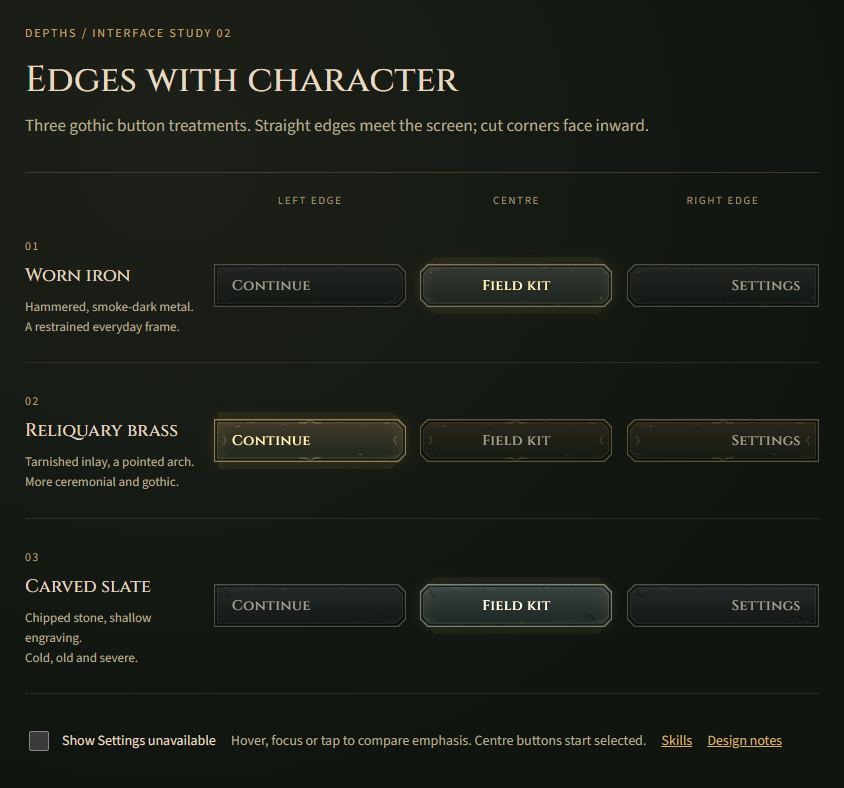
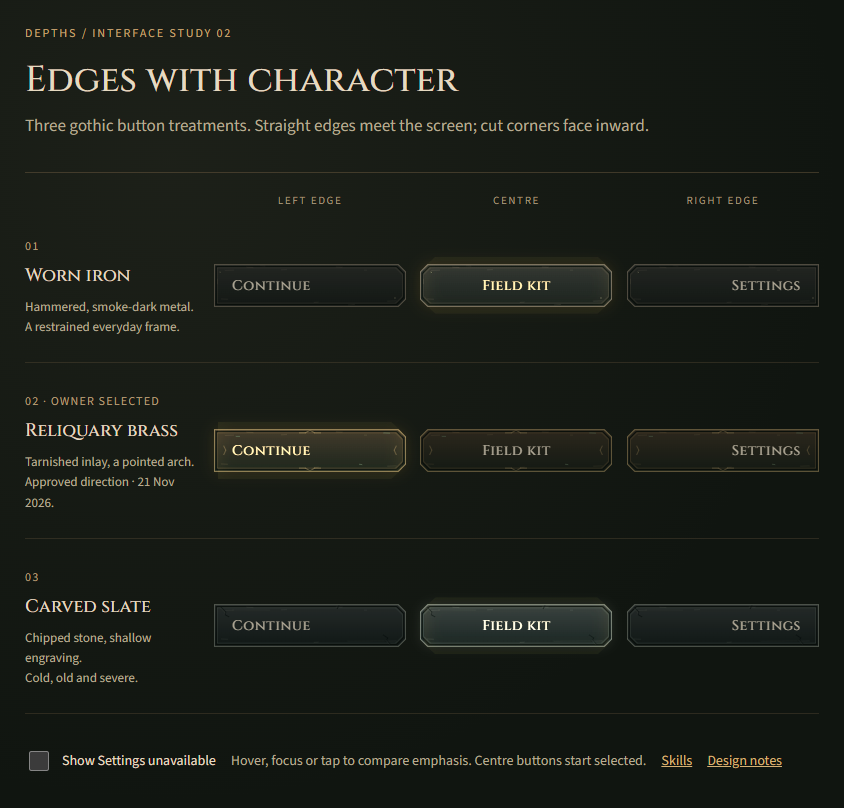
Use full-width skill paths and anchored briefs; record brass approval (Refs #268, #269)

diff --git a/art/concepts/interface/skill-tree-v1/style.css b/art/concepts/interface/skill-tree-v1/style.css
@@ -1,19 +1,17 @@
 @font-face{font-family:Cinzel;src:url('../../../fonts/cinzel/Cinzel-Variable.ttf')}@font-face{font-family:Source;src:url('../../../fonts/source-sans-3/SourceSans3-Variable.ttf')}
-:root{color-scheme:dark;--ink:#111511;--paper:#e6dac1;--muted:#b7ab93;--gold:#d7b174;--edge:#66543c;--rust:#a56c50}
-*{box-sizing:border-box}body{margin:0;background:#0d100e;color:var(--paper);font:17px Source,system-ui,sans-serif}button{font:inherit;color:inherit;cursor:pointer}button:focus-visible,a:focus-visible{outline:2px solid #f2d598;outline-offset:5px}button{-webkit-tap-highlight-color:transparent}h1,h2,p{margin:0}a{color:var(--gold)}
+:root{color-scheme:dark;--paper:#e6dac1;--muted:#b7ab93;--gold:#d7b174;--edge:#80663f;--safe-left:env(safe-area-inset-left,0px);--safe-right:env(safe-area-inset-right,0px);--safe-top:env(safe-area-inset-top,0px);--safe-bottom:env(safe-area-inset-bottom,0px)}
+*{box-sizing:border-box}body{margin:0;background:#0d100e;color:var(--paper);font:17px Source,system-ui,sans-serif}button{font:inherit;color:inherit;cursor:pointer;touch-action:manipulation;-webkit-tap-highlight-color:transparent}button:focus-visible,a:focus-visible,.card-body:focus-visible{outline:2px solid #f2d598;outline-offset:4px}h1,h2,p{margin:0}a{color:var(--gold)}[hidden]{display:none!important}
 .review{max-width:1440px;margin:auto;padding:28px 36px}.review-heading,.review-footer{display:flex;justify-content:space-between;gap:24px;color:var(--muted);font-size:13px}.review-heading{margin-bottom:16px;letter-spacing:.14em}.review-heading b{padding:0 10px;font-weight:400;color:var(--edge)}.review-heading span:last-child{letter-spacing:.04em}.review-footer{margin-top:18px;align-items:center;font-size:15px}.review-footer p{max-width:850px}.review-footer a{white-space:nowrap}
-.screen{position:relative;isolation:isolate;min-height:700px;background:radial-gradient(ellipse at 14% 10%,#42403344,transparent 52%),radial-gradient(ellipse at 90% 100%,#3c281b55,transparent 55%),#181b17;border:1px solid #746044;box-shadow:0 24px 70px #0009,inset 0 0 0 6px #0c110d,inset 0 0 0 7px #66543c55}
-.screen:before{content:"";position:absolute;inset:7px;z-index:-1;background:url('../../../ui/map-v1/quiet-centre.png') center/cover;mix-blend-mode:soft-light;opacity:.11;pointer-events:none}.screen:after{content:"";position:absolute;inset:12px;z-index:-1;box-shadow:inset 0 0 80px 24px #0005;pointer-events:none}
-.topbar{display:grid;grid-template-columns:120px 1fr auto;gap:24px;align-items:center;padding:24px 32px 21px;border-bottom:1px solid #66543c88}.page-title{font:20px Cinzel,Georgia,serif;color:var(--muted)}.identity{display:flex;align-items:baseline;gap:18px}.identity h1{font:30px Cinzel,Georgia,serif;font-weight:500;letter-spacing:.03em}.identity span{color:var(--muted);font-size:17px}.level{display:flex;align-items:center;gap:16px}.level span{font-size:11px;letter-spacing:.14em;color:var(--muted)}.level strong{font:29px Cinzel,Georgia,serif;color:var(--gold)}
-.workspace{display:grid;grid-template-columns:100px minmax(0,1fr) 276px;gap:26px;padding:30px 28px 20px 20px;position:relative}.heroes{display:flex;flex-direction:column;gap:16px;align-items:center;padding:8px 16px 0 0;border-right:1px solid #66543c66}.hero{position:relative;width:72px;height:80px;background:linear-gradient(#080c09,#292a21);padding:0;border:1px solid #66543c;outline:1px solid transparent;outline-offset:4px;transition:border-color .15s}.hero img{display:block;width:100%;height:100%;object-fit:contain;filter:saturate(.72)}.hero[aria-pressed=true]{border-color:var(--gold);outline-color:#d7b17466;background:radial-gradient(ellipse at 50% 100%,#594a30,#10150f)}.hero[aria-pressed=true]:after{content:"";position:absolute;right:-13px;top:36px;border-left:5px solid var(--gold);border-top:4px solid transparent;border-bottom:4px solid transparent}.hero:hover{border-color:var(--gold)}
-.paths{min-width:0;padding:0 2px}.section-heading{display:flex;justify-content:space-between;align-items:baseline;gap:12px;margin-bottom:22px}.section-heading h2{font:17px Cinzel,Georgia,serif;font-weight:500;letter-spacing:.06em}.section-heading span{font-size:13px;color:var(--muted)}.class-tree{display:grid;grid-template-columns:repeat(3,minmax(0,1fr));gap:12px}.branch{display:flex;flex-direction:column;align-items:center;gap:29px;position:relative}.branch:before{content:"";position:absolute;top:44px;height:114px;left:50%;width:1px;background:linear-gradient(var(--edge),#9f8256 55%,var(--edge));opacity:.5}.skill{position:relative;border:0;background:none;display:flex;flex-direction:column;align-items:center;justify-content:flex-start;padding:0;width:100%;min-height:100px}.skill .seal{position:relative;display:grid;place-items:center;width:55px;height:55px;background:linear-gradient(130deg,#313226,#171d16);border:1px solid var(--edge);box-shadow:inset 0 0 0 4px #111710,inset 0 0 0 5px #72604366;clip-path:polygon(8% 0,91% 0,100% 9%,100% 92%,92% 100%,9% 100%,0 91%,0 8%)}.seal img{width:34px;height:34px;object-fit:contain;image-rendering:pixelated;filter:sepia(.5) saturate(.65);opacity:.85}.skill.learned .seal{border-color:var(--gold);box-shadow:inset 0 0 0 4px #111710,inset 0 0 0 5px #b18e5666}.skill .label{margin-top:7px;line-height:1.15;font-size:16px}.pips{display:flex;justify-content:center;gap:4px;margin-top:7px;min-height:6px}.pip{width:5px;height:5px;background:#565445;transform:rotate(45deg)}.pip.filled{background:var(--gold)}.skill:hover .seal,.skill[aria-pressed=true] .seal{border-color:#ffe0a1;background:radial-gradient(#655237,#23281c);filter:drop-shadow(0 0 5px #be8e4033)}.skill[aria-pressed=true]:after{content:"";position:absolute;top:-7px;width:65px;height:65px;border:1px solid #d7b17466;pointer-events:none;transform:rotate(3deg)}
-.divide{display:flex;align-items:center;gap:14px;color:var(--edge);margin:22px 0 26px}.divide:before,.divide:after{content:"";height:1px;flex:1;background:linear-gradient(90deg,transparent,#9b7d4d99)}.divide:after{transform:scaleX(-1)}.divide span{font-size:11px;color:var(--gold)}.personal-section .section-heading{margin-bottom:25px}.personal-tree{display:grid;grid-template-columns:repeat(3,minmax(0,1fr));gap:12px;position:relative}.personal-tree:before{content:"";position:absolute;left:16.6%;right:16.6%;height:1px;top:34px;background:#66543c88;transform:rotate(-.6deg)}.trait .seal{width:70px;height:70px;border-radius:50%;clip-path:none;background:radial-gradient(ellipse at 45% 40%,#43372a,#1b1f16 70%);box-shadow:0 0 0 5px #161d15,0 0 0 6px #6e5a3e88,inset 0 0 0 5px #111710,inset 0 0 0 6px #9c775355}.trait .seal img{width:40px;height:40px}.trait .label{font:16px Cinzel,Georgia,serif;margin-top:16px;text-align:center;min-height:36px;max-width:155px}.trait .state{font-size:12px;color:var(--muted);margin-top:6px}.trait[aria-pressed=true]:after{width:84px;height:84px;top:-7px;transform:rotate(45deg);border-color:#c49a5c88}.trait.locked .seal{filter:saturate(.2);opacity:.45}.trait.locked .label{color:var(--muted)}.trait.locked .seal:after{content:"";width:8px;height:8px;position:absolute;bottom:7px;right:7px;background:#c0b7a2;box-shadow:0 -4px 0 -1px #c0b7a2;border:2px solid #2b3028}.trait .pips{display:none}
-.page-footer{display:flex;justify-content:space-between;gap:12px;border-top:1px solid #66543c55;margin-top:32px;padding-top:16px;color:var(--muted);font-size:12px;letter-spacing:.02em}.page-footer b{color:var(--edge);padding:0 3px}.page-footer span:first-child{font-style:italic}
-.inspection{position:relative;align-self:stretch;min-width:0;border-left:1px solid #66543c88;padding:16px 0 12px 26px}.dismiss{display:none;position:absolute;top:4px;right:4px;width:44px;height:44px;background:none;border:0;font-size:29px}.detail-kind{font-size:12px;color:var(--gold);letter-spacing:.13em;text-transform:uppercase}.detail-seal{margin:36px 0 22px;width:80px;height:80px;display:grid;place-items:center;border:1px solid var(--edge);transform:rotate(3deg);background:radial-gradient(#54443166,#111810)}.detail-seal img{width:56px;height:56px;object-fit:contain;image-rendering:pixelated;transform:rotate(-3deg);filter:sepia(.5) saturate(.65)}.inspection h2{font:25px Cinzel,Georgia,serif;font-weight:500;line-height:1.3}.detail-state{color:var(--gold);font-size:13px;margin-top:10px;letter-spacing:.06em}.flavour{font:italic 17px Georgia,serif;line-height:1.55;color:var(--muted);margin-top:22px}.effect{font-size:18px;line-height:1.45;margin-top:21px}.detail-rule{width:40px;height:1px;background:var(--edge);margin:24px 0}.unlock{font-size:15px;line-height:1.4;color:var(--muted)}.detail-caption{margin-top:18px;color:#b89969;font-size:12px}.inspection[hidden]{display:none}
-@media(min-width:1101px){.screen{min-height:680px}.inspection[hidden]{display:block;visibility:hidden}}
-@media(max-width:1100px), (max-height:650px) and (min-width:640px){.review{padding:14px 20px}.screen{min-height:570px}.workspace{grid-template-columns:72px minmax(0,1fr);gap:20px;padding:20px}.heroes{padding-right:12px;gap:14px}.hero{width:56px;height:66px}.hero[aria-pressed=true]:after{top:28px;right:-11px}.topbar{padding:17px 24px;grid-template-columns:70px 1fr auto}.identity h1{font-size:25px}.level span{display:none}.class-tree{max-width:760px;margin:auto}.branch{gap:15px}.branch:before{height:98px}.skill{min-height:84px}.skill .seal{width:48px;height:48px}.seal img{width:30px;height:30px}.skill .label{font-size:15px}.section-heading{margin-bottom:17px}.divide{margin:16px 0}.trait .seal{width:62px;height:62px}.trait .label{font-size:15px;margin-top:12px}.trait[aria-pressed=true]:after{width:76px;height:76px}.personal-tree:before{top:31px}.page-footer{margin-top:19px;padding-top:10px}.inspection{position:absolute;right:15px;top:10px;bottom:12px;width:300px;padding:25px;border:1px solid #9c7e4d;background:linear-gradient(135deg,#272b21f8,#121910fc);box-shadow:0 12px 32px #000b;z-index:3;overflow-y:auto}.dismiss{display:block}.detail-kind{padding-right:30px}.detail-seal{margin:20px 0;width:58px;height:58px}.detail-seal img{width:42px;height:42px}.inspection h2{font-size:23px}.effect{font-size:17px}.flavour{margin-top:16px;font-size:16px}.detail-rule{margin:16px 0}.review-footer{font-size:13px}}
-@media(max-height:650px) and (min-width:640px){.review{padding:0}.review-heading,.review-footer{display:none}.screen{min-height:100svh}.topbar{height:61px;padding:10px max(19px,env(safe-area-inset-right));grid-template-columns:70px 1fr auto;gap:16px}.page-title{font-size:17px}.identity h1{font-size:22px}.identity span{font-size:15px}.workspace{padding:13px max(18px,env(safe-area-inset-right)) 10px max(14px,env(safe-area-inset-left));gap:20px;grid-template-columns:62px minmax(0,1fr)}.heroes{gap:12px;padding-top:2px}.hero{width:48px;height:55px}.hero[aria-pressed=true]:after{top:24px}.section-heading{margin-bottom:11px}.section-heading h2{font-size:14px}.section-heading span{font-size:12px}.class-tree{gap:8px}.branch{gap:11px}.branch:before{top:35px;height:80px}.skill{min-height:64px}.skill .seal{width:42px;height:42px}.seal img{width:27px;height:27px}.skill .label{font-size:13px;margin-top:4px}.pips{margin-top:5px;gap:4px}.pip{height:4px;width:4px}.skill[aria-pressed=true]:after{width:52px;height:52px;top:-5px}.divide{margin:10px 0 9px}.personal-section .section-heading{margin-bottom:13px}.trait .seal{width:48px;height:48px}.trait .seal img{width:30px;height:30px}.trait .label{font-size:13px;margin-top:10px;min-height:16px;max-width:175px}.trait .state{font-size:11px;margin-top:3px}.trait[aria-pressed=true]:after{width:60px;height:60px;top:-6px}.personal-tree:before{top:24px}.page-footer{margin-top:12px;padding-top:7px;font-size:11px}.inspection{top:5px;bottom:5px;width:290px;padding:18px 24px}.detail-seal{float:left;margin:17px 16px 10px 0;width:44px;height:44px}.detail-seal img{width:32px;height:32px}.inspection h2{font-size:21px;padding-top:16px}.detail-state{font-size:12px}.flavour{clear:both;font-size:15px;margin-top:18px}.effect{margin-top:14px;font-size:16px}.unlock{font-size:14px}.detail-caption{margin-top:12px}}
-@media(max-width:639px){.review{padding:8px}.review-heading{font-size:10px}.review-heading span:last-child{display:none}.screen{min-height:760px}.topbar{grid-template-columns:1fr auto;gap:10px;padding:18px}.page-title{display:none}.identity{display:block}.identity span{display:block;margin-top:6px}.workspace{grid-template-columns:1fr;padding:18px;gap:24px}.heroes{flex-direction:row;border-right:0;border-bottom:1px solid var(--edge);padding:0 0 16px;justify-content:space-between}.hero[aria-pressed=true]:after{display:none}.section-heading{display:block}.section-heading span{display:block;margin-top:6px}.section-heading h2{font-size:15px}.trait .label{font-size:13px;min-height:35px}.page-footer{display:block}.page-footer span{display:block;margin-top:5px}.inspection{position:fixed;inset:auto 10px 10px;width:auto;max-height:65svh}.review-footer{display:block}.review-footer a{display:block;margin-top:12px}}
-@media(max-height:430px) and (min-width:640px){.topbar{height:46px;padding-top:6px;padding-bottom:6px}.workspace{padding-top:10px;padding-bottom:8px}.heroes{gap:9px}.hero{height:49px}.section-heading{margin-bottom:8px}.section-heading h2{font-size:13px}.class-tree{grid-template-columns:repeat(6,minmax(0,1fr));gap:7px}.branch{display:contents}.branch:before{display:none}.class-section .skill{min-height:72px}.class-section .seal{width:38px;height:38px}.class-section .label{font-size:12px;min-height:27px;max-width:80px;margin-top:3px}.class-section .pips{margin-top:3px}.divide{margin:5px 0 7px}.personal-section .section-heading{margin-bottom:13px}.trait .seal{width:42px;height:42px}.trait .seal img{width:27px;height:27px}.trait .label{font-size:12px;margin-top:9px}.trait .state{display:none}.personal-tree:before{top:21px}.trait[aria-pressed=true]:after{width:54px;height:54px}.page-footer{margin-top:12px;padding-top:6px}.page-footer span:last-child{display:none}}
+.screen{position:relative;isolation:isolate;min-height:660px;background:radial-gradient(ellipse at 14% 10%,#42403344,transparent 52%),radial-gradient(ellipse at 90% 100%,#3c281b55,transparent 55%),#181b17;border:1px solid #746044;box-shadow:0 24px 70px #0009,inset 0 0 0 6px #0c110d,inset 0 0 0 7px #66543c55}.screen:before{content:"";position:absolute;inset:7px;z-index:-1;background:url('../../../ui/map-v1/quiet-centre.png') center/cover;mix-blend-mode:soft-light;opacity:.11;pointer-events:none}.screen:after{content:"";position:absolute;inset:12px;z-index:-1;box-shadow:inset 0 0 80px 24px #0005;pointer-events:none}
+.topbar{display:grid;grid-template-columns:140px 1fr auto;gap:24px;align-items:center;padding:22px 28px;border-bottom:1px solid #8b714588}.page-title{display:grid;place-items:center;width:128px;height:48px;background:url('../gothic-buttons-v1/assets/brass-left.svg') center/100% 100% no-repeat;font:19px Cinzel,Georgia,serif;color:var(--gold)}.identity{display:flex;align-items:baseline;gap:18px}.identity h1{font:30px Cinzel,Georgia,serif;font-weight:500;letter-spacing:.03em}.identity span{color:var(--muted);font-size:17px}.level{display:flex;align-items:center;gap:16px}.level span{font-size:11px;letter-spacing:.14em;color:var(--muted)}.level strong{font:29px Cinzel,Georgia,serif;color:var(--gold)}
+.workspace{display:grid;grid-template-columns:100px minmax(0,1fr);gap:30px;padding:30px 32px 22px 20px}.heroes{display:flex;flex-direction:column;gap:16px;align-items:center;padding:8px 16px 0 0;border-right:1px solid #80663f66}.hero{position:relative;width:72px;height:80px;background:linear-gradient(#080c09,#292a21);padding:0;border:1px solid #66543c;outline:1px solid transparent;outline-offset:4px}.hero img{display:block;width:100%;height:100%;object-fit:contain;filter:saturate(.72)}.hero[aria-pressed=true]{border-color:var(--gold);outline-color:#d7b17466;background:radial-gradient(ellipse at 50% 100%,#594a30,#10150f)}.hero[aria-pressed=true]:after{content:"";position:absolute;right:-13px;top:36px;border-left:5px solid var(--gold);border-top:4px solid transparent;border-bottom:4px solid transparent}.hero:hover{border-color:var(--gold)}
+.paths{min-width:0}.section-heading{display:flex;justify-content:space-between;align-items:baseline;gap:12px;margin-bottom:32px}.section-heading h2{font:17px Cinzel,Georgia,serif;font-weight:500;letter-spacing:.06em}.section-heading span{font-size:13px;color:var(--muted)}.class-tree,.personal-tree{display:grid;position:relative;gap:16px}.class-tree{grid-template-columns:repeat(6,minmax(0,1fr));padding:0 8px}.branch{display:contents}.class-tree:before,.personal-tree:before{content:"";position:absolute;left:8.3%;right:8.3%;height:1px;top:30px;background:linear-gradient(90deg,#8b714566,#a88a5755,#8b714566);transform:rotate(-.25deg);pointer-events:none}.skill{position:relative;border:0;background:none;display:flex;flex-direction:column;align-items:center;justify-content:flex-start;padding:0 2px 5px;width:100%;min-height:112px}.skill .seal{position:relative;display:grid;place-items:center;width:60px;height:60px;flex-shrink:0;background:linear-gradient(135deg,#3a3221,#161d16);border:1px solid #a18a5c;box-shadow:inset 0 0 0 4px #111710,inset 0 0 0 5px #8b714555;clip-path:polygon(10% 0,90% 0,100% 10%,100% 90%,90% 100%,10% 100%,0 90%,0 10%)}.seal img{width:36px;height:36px;object-fit:contain;image-rendering:pixelated;filter:sepia(.5) saturate(.65);opacity:.85}.skill.learned .seal{border-color:var(--gold);box-shadow:inset 0 0 0 4px #111710,inset 0 0 0 5px #b18e5666}.skill .label{margin-top:10px;line-height:1.15;font-size:16px;text-align:center}.pips{display:flex;justify-content:center;gap:5px;margin-top:9px;min-height:6px}.pip{width:5px;height:5px;background:#565445;transform:rotate(45deg)}.pip.filled{background:var(--gold)}.skill:hover .seal,.skill[aria-pressed=true] .seal{border-color:#ffe0a1;background:radial-gradient(#655237,#23281c);filter:drop-shadow(0 0 5px #be8e4033)}.skill[aria-pressed=true]:after{content:"";position:absolute;top:-6px;width:72px;height:72px;border:1px solid #d7b17466;pointer-events:none;transform:rotate(3deg)}
+.divide{display:flex;align-items:center;gap:14px;color:var(--edge);margin:28px 0 30px}.divide:before,.divide:after{content:"";height:1px;flex:1;background:linear-gradient(90deg,transparent,#9b7d4d99)}.divide:after{transform:scaleX(-1)}.divide span{font-size:11px;color:var(--gold)}.personal-section .section-heading{margin-bottom:31px}.personal-tree{grid-template-columns:repeat(3,minmax(0,1fr))}.personal-tree:before{left:16.6%;right:16.6%;top:38px}.trait .seal{width:76px;height:76px;border-radius:50%;clip-path:none;background:radial-gradient(ellipse at 45% 40%,#43372a,#1b1f16 70%);box-shadow:0 0 0 5px #161d15,0 0 0 6px #8d704688,inset 0 0 0 5px #111710,inset 0 0 0 6px #9c775355}.trait .seal img{width:42px;height:42px}.trait .label{font:17px Cinzel,Georgia,serif;margin-top:18px;text-align:center;min-height:22px;max-width:240px}.trait .state{font-size:12px;color:var(--muted);margin-top:8px}.trait[aria-pressed=true]:after{width:90px;height:90px;top:-7px;transform:rotate(45deg);border-color:#c49a5c88}.trait.locked .seal{filter:saturate(.2);opacity:.45}.trait.locked .label{color:var(--muted)}.trait.locked .seal:after{content:"";width:8px;height:8px;position:absolute;bottom:7px;right:7px;background:#c0b7a2;box-shadow:0 -4px 0 -1px #c0b7a2;border:2px solid #2b3028}.page-footer{display:flex;justify-content:space-between;gap:12px;border-top:1px solid #66543c55;margin-top:30px;padding-top:16px;color:var(--muted);font-size:12px;letter-spacing:.02em}.page-footer b{color:var(--edge);padding:0 3px}.page-footer span:first-child{font-style:italic}
+/* Source-anchored inventory-style card. No screen column is reserved. */
+.inspection{position:fixed;display:flex;flex-direction:column;z-index:10;width:340px;max-height:420px;padding:0;background:linear-gradient(135deg,#292c21fa,#131a13fc);border:1px solid #b29762;box-shadow:0 12px 36px #000b,inset 0 0 0 4px #151b1388;overflow:visible}.inspection:before{content:"";position:absolute;top:var(--arrow-y,30px);width:10px;height:10px;background:#252b1e;border:solid #b29762;transform:rotate(45deg);pointer-events:none}.inspection[data-side=right]:before{left:-6px;border-width:0 0 1px 1px}.inspection[data-side=left]:before{right:-6px;border-width:1px 1px 0 0}.card-header{position:relative;flex-shrink:0;padding:16px 52px 14px 18px;border-bottom:1px solid #8b714544;min-height:104px}.detail-kind{font-size:11px;color:var(--gold);letter-spacing:.1em;text-transform:uppercase}.detail-seal{float:left;margin:9px 12px 0 0;width:40px;height:40px;display:grid;place-items:center;border:1px solid #8b7145;background:#1a2116}.detail-seal img{width:29px;height:29px;object-fit:contain;image-rendering:pixelated;filter:sepia(.5) saturate(.65)}.inspection h2{font:20px Cinzel,Georgia,serif;font-weight:500;line-height:1.25;margin-top:8px}.detail-state{color:var(--gold);font-size:12px;margin-top:5px}.dismiss{position:absolute;right:5px;top:5px;width:44px;height:44px;background:none;border:0;font-size:27px;color:var(--paper)}.card-body{overflow-y:auto;overscroll-behavior:contain;min-height:0;padding:18px;scrollbar-color:#8b7145 #192116}.effect{font-size:17px;line-height:1.45}.flavour{font:italic 15px Georgia,serif;line-height:1.5;color:var(--muted);margin-top:16px}.card-footer{flex-shrink:0;padding:14px 18px 17px;border-top:1px solid #8b714544}.unlock{font-size:14px;line-height:1.35;color:var(--muted)}.detail-caption{margin-top:9px;color:#c0a073;font-size:12px}
+@media(max-width:1100px){.review{padding:14px 20px}.topbar{grid-template-columns:110px 1fr auto;padding:17px 22px;gap:20px}.page-title{width:104px;height:44px;font-size:17px}.identity h1{font-size:25px}.level span{display:none}.workspace{grid-template-columns:72px minmax(0,1fr);gap:22px;padding:25px 24px 20px 16px}.heroes{padding-right:12px;gap:14px}.hero{width:56px;height:66px}.hero[aria-pressed=true]:after{top:28px;right:-11px}.section-heading span{font-size:12px}.class-tree{gap:8px;padding:0}.skill .seal{width:48px;height:48px}.seal img{width:30px;height:30px}.skill .label{font-size:15px}.skill[aria-pressed=true]:after{width:60px;height:60px}.class-tree:before{top:24px}.trait .seal{width:66px;height:66px}.trait .label{font-size:15px}.trait[aria-pressed=true]:after{width:80px;height:80px}.personal-tree:before{top:33px}.review-footer{font-size:13px}}
+@media(max-height:650px) and (min-width:640px){.review{padding:0}.review-heading,.review-footer{display:none}.screen{min-height:100svh}.topbar{height:63px;padding:8px max(18px,env(safe-area-inset-right));grid-template-columns:105px 1fr auto;gap:16px}.page-title{width:98px;height:43px;font-size:17px}.identity h1{font-size:23px}.identity span{font-size:15px}.level span{display:none}.workspace{padding:22px max(22px,env(safe-area-inset-right)) 12px max(14px,env(safe-area-inset-left));gap:24px;grid-template-columns:62px minmax(0,1fr)}.heroes{gap:12px;padding-top:2px}.hero{width:48px;height:55px}.hero[aria-pressed=true]:after{top:24px}.section-heading{margin-bottom:22px}.section-heading h2{font-size:15px}.section-heading span{font-size:12px}.class-tree{gap:8px}.skill{min-height:94px}.skill .seal{width:48px;height:48px}.seal img{width:30px;height:30px}.skill .label{font-size:14px;margin-top:9px}.skill[aria-pressed=true]:after{width:60px;height:60px;top:-6px}.class-tree:before{top:24px}.divide{margin:21px 0}.personal-section .section-heading{margin-bottom:22px}.trait .seal{width:62px;height:62px}.trait .seal img{width:34px;height:34px}.trait .label{font-size:15px;margin-top:15px}.trait[aria-pressed=true]:after{width:76px;height:76px;top:-7px}.personal-tree:before{top:31px}.page-footer{margin-top:22px;padding-top:12px}}
+@media(max-height:430px) and (min-width:640px){.topbar{height:48px;padding-top:4px;padding-bottom:4px}.page-title{height:36px;width:94px;font-size:15px}.identity h1{font-size:21px}.workspace{padding-top:13px;padding-bottom:8px;gap:20px}.heroes{gap:9px}.hero{height:49px}.section-heading{margin-bottom:13px}.section-heading h2{font-size:13px}.class-tree{gap:6px}.class-section .skill{min-height:79px}.class-section .seal{width:40px;height:40px}.class-section .seal img{width:26px;height:26px}.class-section .label{font-size:12px;min-height:26px;max-width:82px;margin-top:6px}.class-section .pips{margin-top:3px;gap:4px}.pip{width:4px;height:4px}.class-tree:before{top:20px}.skill[aria-pressed=true]:after{width:52px;height:52px}.divide{margin:10px 0 12px}.personal-section .section-heading{margin-bottom:17px}.trait .seal{width:44px;height:44px}.trait .seal img{width:28px;height:28px}.trait .label{font-size:12px;margin-top:11px;min-height:16px}.trait .state{display:none}.trait[aria-pressed=true]:after{width:58px;height:58px}.personal-tree:before{top:22px}.page-footer{display:none}.page-footer span:last-child{display:none}.card-header{padding-top:12px;padding-bottom:11px;min-height:98px}.inspection h2{font-size:18px}.card-body{padding:14px 18px}.effect{font-size:16px}.card-footer{padding-top:11px;padding-bottom:12px}}
+@media(max-width:639px){.review{padding:8px}.review-heading{font-size:10px}.review-heading span:last-child{display:none}.screen{min-height:760px}.topbar{grid-template-columns:1fr auto;gap:10px;padding:18px}.page-title{display:none}.identity{display:block}.identity span{display:block;margin-top:6px}.workspace{grid-template-columns:1fr;padding:18px;gap:24px}.heroes{flex-direction:row;border-right:0;border-bottom:1px solid var(--edge);padding:0 0 16px;justify-content:space-between}.hero[aria-pressed=true]:after{display:none}.section-heading{display:block}.section-heading span{display:block;margin-top:6px}.section-heading h2{font-size:15px}.class-tree{grid-template-columns:repeat(3,minmax(0,1fr));row-gap:22px}.class-tree:before{display:none}.trait .label{font-size:13px;min-height:35px}.page-footer{display:block}.page-footer span{display:block;margin-top:5px}.review-footer{display:block}.review-footer a{display:block;margin-top:12px}}
 @media(prefers-reduced-motion:reduce){*{transition:none!important}}
 

diff --git a/art/concepts/interface/skill-tree-v1/concept.js b/art/concepts/interface/skill-tree-v1/concept.js
@@ -51,10 +51,12 @@ const heroes = [
   ]},
 ];
 let current=heroes[0], selected=null, selectionPinned=false;
+let hoverTimer=null;
 const byId=id=>document.getElementById(id);
 const image=key=>ART+icons[key];
 const panel=byId('inspection');
-const compact=()=>window.matchMedia('(max-width:1100px), (max-height:650px) and (min-width:640px)').matches;
+const clearHover=()=>{clearTimeout(hoverTimer);hoverTimer=null;};
+function leavePreview(){clearHover();if(!selectionPinned)hoverTimer=setTimeout(()=>dismiss(false),160);}
 function createNode(data){
   const button=document.createElement('button');
   button.type='button'; button.className='skill'+(data.personal?' trait':'')+(data.rank>0||data.state==='Known'?' learned':'')+(data.state==='Story locked'?' locked':'');
@@ -66,13 +68,17 @@ function createNode(data){
   button.append(seal,label);
   if(data.personal){const state=document.createElement('span');state.className='state';state.textContent=data.state;button.append(state);}
   else{const pips=document.createElement('span');pips.className='pips';pips.setAttribute('aria-hidden','true');for(let i=0;i<data.max;i++){const pip=document.createElement('i');pip.className='pip'+(i<data.rank?' filled':'');pips.append(pip);}button.append(pips);}
-  button.addEventListener('mouseenter',()=>{if(!compact()&&!selectionPinned)inspect(data,button);});
-  button.addEventListener('focus',()=>{if(!compact()&&!selectionPinned)inspect(data,button);});
-  button.addEventListener('click',()=>{selectionPinned=true;inspect(data,button);});
+  button.addEventListener('pointerenter',event=>{clearHover();if(event.pointerType==='mouse'&&!selectionPinned)inspect(data,button);});
+  button.addEventListener('pointerleave',leavePreview);
+  button.addEventListener('focus',()=>{clearHover();if(button.matches(':focus-visible')&&!selectionPinned)inspect(data,button);});
+  button.addEventListener('click',()=>{clearHover();selectionPinned=true;inspect(data,button);});
   return button;
 }
 function inspect(data,button){
+  clearHover();
+  if(selected)selected.removeAttribute('aria-describedby');
   selected=button;
+  button.setAttribute('aria-describedby','inspection');
   document.querySelectorAll('.skill').forEach(b=>b.setAttribute('aria-pressed',String(b===button)));
   byId('detail-kind').textContent=data.personal?'Personal trait':current.role+' training';
   byId('detail-icon').src=image(data.icon);
@@ -83,23 +89,49 @@ function inspect(data,button){
   byId('detail-unlock').textContent=data.unlock;
   byId('detail-caption').textContent=data.personal?'Unique to '+current.name:'Shared by heroes of this class';
   panel.hidden=false;
+  positionCard();
+}
+function positionCard(){
+  if(panel.hidden||!selected)return;
+  const screen=document.querySelector('.screen').getBoundingClientRect();
+  const rootStyle=getComputedStyle(document.documentElement);
+  const safe=side=>Math.max(12,parseFloat(rootStyle.getPropertyValue('--safe-'+side))||0);
+  const bounds={left:Math.max(screen.left,safe('left')),right:Math.min(screen.right,innerWidth-safe('right')),top:Math.max(screen.top,safe('top')),bottom:Math.min(screen.bottom,innerHeight-safe('bottom'))};
+  const source=selected.getBoundingClientRect();
+  if(source.bottom<bounds.top||source.top>bounds.bottom){dismiss(false);return;}
+  const rightSpace=bounds.right-source.right-12;
+  const leftSpace=source.left-bounds.left-12;
+  const side=rightSpace>=Math.min(340,bounds.right-bounds.left)||rightSpace>=leftSpace?'right':'left';
+  const space=side==='right'?rightSpace:leftSpace;
+  const width=Math.min(340,Math.max(230,space),bounds.right-bounds.left);
+  panel.style.width=width+'px';
+  panel.style.maxHeight=Math.min(420,bounds.bottom-bounds.top)+'px';
+  const height=panel.getBoundingClientRect().height;
+  const x=side==='right'?source.right+12:source.left-width-12;
+  const y=Math.max(bounds.top,Math.min(source.top,bounds.bottom-height));
+  panel.style.left=Math.max(bounds.left,Math.min(x,bounds.right-width))+'px';
+  panel.style.top=y+'px';
+  panel.dataset.side=side;
+  panel.style.setProperty('--arrow-y',Math.max(16,Math.min(source.top+25-y,height-26))+'px');
 }
 function chooseHero(hero){
-  current=hero;selectionPinned=false;selected=null;
+  dismiss(false);current=hero;
   byId('hero-name').textContent=hero.name;byId('hero-role').textContent=hero.role;
   byId('class-note').textContent='Shared by '+hero.role+' heroes';
   document.querySelectorAll('.hero').forEach(b=>b.setAttribute('aria-pressed',String(b.dataset.hero===hero.id)));
   byId('class-tree').replaceChildren();
   for(const pair of classes[hero.role]){const branch=document.createElement('div');branch.className='branch';pair.forEach(d=>branch.append(createNode(d)));byId('class-tree').append(branch);}
   byId('personal-tree').replaceChildren(...hero.traits.map(createNode));
-  if(compact()) panel.hidden=true;
-  else inspect(hero.traits[0],byId('personal-tree').firstElementChild);
 }
 for(const hero of heroes){const b=document.createElement('button');b.className='hero';b.type='button';b.dataset.hero=hero.id;b.setAttribute('aria-label',hero.name+', '+hero.role);b.setAttribute('aria-pressed','false');const img=document.createElement('img');img.src=ART+hero.portrait;img.alt='';b.append(img);b.addEventListener('click',()=>chooseHero(hero));document.querySelector('.heroes').append(b);}
-function dismiss(){const previous=selected;selected=null;selectionPinned=true;if(previous)previous.focus({preventScroll:true});panel.hidden=true;document.querySelectorAll('.skill').forEach(b=>b.setAttribute('aria-pressed','false'));selectionPinned=false;}
-document.querySelector('.dismiss').addEventListener('click',dismiss);
-document.addEventListener('keydown',event=>{if(event.key==='Escape')dismiss();});
-document.addEventListener('pointerdown',event=>{if(compact()&&!panel.hidden&&!panel.contains(event.target)&&!event.target.closest('.skill'))dismiss();});
-window.matchMedia('(max-width:1100px), (max-height:650px) and (min-width:640px)').addEventListener('change',()=>chooseHero(current));
+function dismiss(restoreFocus=true){clearHover();const previous=selected;selected=null;selectionPinned=true;if(previous){previous.removeAttribute('aria-describedby');if(restoreFocus)previous.focus({preventScroll:true});}panel.hidden=true;document.querySelectorAll('.skill').forEach(b=>b.setAttribute('aria-pressed','false'));selectionPinned=false;}
+document.querySelector('.dismiss').addEventListener('click',()=>dismiss());
+panel.addEventListener('pointerenter',clearHover);
+panel.addEventListener('pointerleave',leavePreview);
+document.addEventListener('keydown',event=>{if(event.key==='Escape'&&!panel.hidden){event.preventDefault();dismiss();}});
+document.addEventListener('pointerdown',event=>{if(!panel.hidden&&!panel.contains(event.target)&&!event.target.closest('.skill'))dismiss(false);});
+document.addEventListener('focusin',event=>{if(!selectionPinned&&!panel.hidden&&!panel.contains(event.target)&&!event.target.closest('.skill'))dismiss(false);});
+window.addEventListener('resize',positionCard);
+window.addEventListener('scroll',positionCard,true);
 chooseHero(current);
 

diff --git a/art/concepts/interface/skill-tree-v1/inspector.html b/art/concepts/interface/skill-tree-v1/inspector.html
@@ -29,20 +29,25 @@
           </section>
           <footer class="page-footer"><span>Learned skills endure</span><span>Deeds <b>·</b> Manuals <b>·</b> Quests <b>·</b> Training</span></footer>
         </div>
-        <aside class="inspection" id="inspection" aria-label="Selected skill" aria-live="polite">
+      </div>
+    </section>
+        <aside class="inspection" id="inspection" aria-label="Skill description" hidden>
+          <header class="card-header">
           <button class="dismiss" aria-label="Close skill description">×</button>
           <div class="detail-kind" id="detail-kind"></div>
           <div class="detail-seal"><img id="detail-icon" alt=""></div>
           <h2 id="detail-name"></h2>
           <div class="detail-state" id="detail-state"></div>
-          <p class="flavour" id="detail-flavour"></p>
+          </header>
+          <div class="card-body" tabindex="0" aria-label="Skill details">
           <p class="effect" id="detail-effect"></p>
-          <div class="detail-rule"></div>
+          <p class="flavour" id="detail-flavour"></p>
+          </div>
+          <footer class="card-footer">
           <p class="unlock" id="detail-unlock"></p>
           <div class="detail-caption" id="detail-caption"></div>
+          </footer>
         </aside>
-      </div>
-    </section>
     <div class="review-footer"><p>Hover or select a seal to inspect. Compare Corin and Branna: the same class training, a different personal path.</p><a href="../gothic-buttons-v1/inspector.html">Menu buttons</a><a href="../../../../docs/skill-tree-concept.md">Design notes</a></div>
   </main>
   <script src="concept.js"></script>

diff --git a/art/concepts/interface/gothic-buttons-v1/inspector.html b/art/concepts/interface/gothic-buttons-v1/inspector.html
@@ -10,7 +10,7 @@
     <div class="placement"><button class="menu-button right" aria-pressed="false"><span>Settings</span></button></div>
   </section>
   <section class="example brass" aria-labelledby="brass-heading">
-    <div class="material"><span>02</span><h2 id="brass-heading">Reliquary brass</h2><p>Tarnished inlay, a pointed arch.<br>More ceremonial and gothic.</p></div>
+    <div class="material"><span>02 · OWNER SELECTED</span><h2 id="brass-heading">Reliquary brass</h2><p>Tarnished inlay, a pointed arch.<br>Approved direction · 21 Nov 2026.</p></div>
     <div class="placement"><button class="menu-button left" aria-pressed="false"><span>Continue</span></button></div>
     <div class="placement"><button class="menu-button centre" aria-pressed="true"><span>Field kit</span></button></div>
     <div class="placement"><button class="menu-button right" aria-pressed="false"><span>Settings</span></button></div>

diff --git a/docs/skill-tree-concept.md b/docs/skill-tree-concept.md
@@ -5,6 +5,11 @@ structural references. Small, shared class improvements belong above the
 named character's larger special traits. Menus should feel more distinctive
 and gothic; their outside edges stay straight and their inward corners bevel.
 
+**Owner review, 2026-11-21:** Reliquary brass is approved ("works great").
+The skill paths should use the landscape width, with no fixed description
+column. Hover/tap descriptions should follow the backpack inventory pattern.
+This revision implements that presentation in the concept inspector.
+
 ## Selectable skill-screen concept
 
 Open `art/concepts/interface/skill-tree-v1/inspector.html`. It uses the
@@ -13,8 +18,9 @@ grain, brass accents, approved portraits and existing glyphs.
 
 - **Above:** six compact class-training seals. Four small rank marks suggest
   modest improvements. Health and accuracy sit alongside class-appropriate
-  options; the Mage has Spell reserve. The three vertical pairs are visual
-  groupings, not approved prerequisite chains.
+  options; the Mage has Spell reserve. They now run horizontally across the
+  full available width. Connecting lines are visual groupings, not approved
+  prerequisite chains.
 - **Below:** three larger personal medallions. Known traits retain a bright
   rim; later story traits retain a dim symbol and lock. The connecting line
   expresses a personal path, not automatic unlock logic.
@@ -22,13 +28,17 @@ grain, brass accents, approved portraits and existing glyphs.
   comparison. Corin's proposed identity develops his existing Grudge into
   retaliation and personal endurance. Branna's proposed identity grows from
   rescue work into protection and recovery. Mara and Alwen also have examples.
-- **Inspection:** desktop hover previews a description; click pins it.
-  Touch selects and opens a scrollable description card. Escape/Close returns
-  to the seals; native buttons support keyboard focus. Locked traits can be
-  inspected. Hero selection stays on the left.
-- **Phone:** at low landscape heights the six class skills form one row so
-  both halves fit together. A tapped description temporarily overlays part
-  of the tree. Long descriptions scroll within that card.
+- **Inspection:** initially hidden on every screen size; it reserves no
+  layout space. Mouse hover or keyboard focus previews a card beside the
+  source; click/tap pins it. Moving from the source into the card keeps it
+  readable. Unpinned previews disappear after leaving; Close, outside click
+  or Escape dismisses a pinned card. Escape/Close restores source focus.
+  The selected node stays reachable. Long descriptions scroll within the
+  card while its heading, unlock information and Close remain accessible.
+  Locked traits can be inspected. Hero selection stays on the left.
+- **Landscape:** class training and personal paths each span the width to
+  the right of the portrait rail. The two sections remain visible together
+  on phone shapes; compact layouts omit the explanatory footer.
 
 This is an independent visual proposal. Current `Progression` rules remain:
 expedition levels reset, while learned skills persist. The screen explicitly
@@ -44,9 +54,9 @@ No save, class, quest, trait resource or live screen is changed.
 Open `art/concepts/interface/gothic-buttons-v1/inspector.html`.
 
 1. **Worn iron:** restrained double frame, small rivets and smoke-dark metal.
-2. **Reliquary brass:** tarnished inlay and a small pointed-arch accent. This
-   is the strongest candidate for the requested gothic direction, with room
-   to use the quieter iron variant for secondary controls.
+2. **Reliquary brass — owner selected:** tarnished inlay and a small
+   pointed-arch accent. `selection.json` records the approval and the three
+   placement rules. Its frame is reflected in the revised skill heading.
 3. **Carved slate:** cool stone, shallow engraving and a few chipped corners.
 
 Each has left/centre/right variants. The left has a flat left edge and
@@ -58,7 +68,8 @@ Keep the 44px minimum hit area when adapting these shapes for Godot.
 Nine original scalable frame studies live in its `assets` folder, generated
 by `tools/art/build_gothic_button_concepts.py`. Labels remain real text,
 separate from frames. These are reusable design sources, not drop-in Godot
-StyleBoxes or approved replacements. CSS stretches the frame for comparison;
+StyleBoxes. Reliquary brass is the approved visual direction; live Godot menu
+adaptation is separate. CSS stretches the frame for comparison;
 production should preserve corner widths through a polygon or sliced frame.
 The owner's reference screenshots are not redistributed in this delivery.
 
@@ -66,9 +77,14 @@ The owner's reference screenshots are not redistributed in this delivery.
 
 Headless Chrome checked all images/fonts, hero switching, equal shared-class
 panels, different personal panels, Mage spell reserve inspection, touch-size
-controls, Escape, button selection and unavailable states. Both skill sections
-fit at 1278×590, 844×390 and 667×375 without page overflow. All skill hit areas
-are at least 67px in these samples. The button sheet scrolls vertically on a
+controls, Escape, button selection and unavailable states. The revision also
+checks initial card hiding, hover preview/leave, moving into a card, pinning,
+outside dismissal, keyboard focus, emulated touch, a long-text scrolling
+stress case and simulated 47px side / 21px bottom safe margins. All nine
+nodes at each of four sizes retain reachable sources and bounded cards.
+Both skill sections fit at 1440×900, 1278×590, 844×390 and 667×375 without
+page overflow. All skill hit areas are at least 86px in these samples.
+The button sheet scrolls vertically on a
 phone because it compares three treatments; each individual button remains
 at least 58px high. See `validation.json` and the `captures` directories beside
 the inspectors. These are browser concept captures, not running-game footage

diff --git a/NOTES.md b/NOTES.md
@@ -13,6 +13,12 @@ Format:
 
 ---
 
+## 2026-11-21 – ChatGPT (approved brass and full-width skill paths, #268/#269)
+
+- Did: owner selected Reliquary brass ("works great"); recorded in `DESIGN.md` and the button study's `selection.json`. Skill concept now has horizontal class training above personal paths across the width, with no reserved description column. Inventory-style cards appear beside the source on hover/focus, pin on click/tap and dismiss on leaving an unpinned preview, outside click, Close or Escape. Long content scrolls; the selected source remains reachable. Updated captures and `validation.json`.
+- Next: review the revised skill concept in PR #270; adapt the approved brass frames to Godot with fixed corner widths during live menu hookup.
+- Watch out: this is still the presentation concept; rank counts, new traits and unlocks are not approved gameplay. Four landscape sizes, 36 source/card placements, keyboard, hover, pinning, emulated touch and long-text/safe-margin checks pass in headless Chrome. Physical iPhone validation remains.
+
 ## 2026-11-21 – Claude (smoother 3D model animation)
 
 - Did: owner request. `scripts/anim_tidy.gd`, called by the three model actor scripts (combat-roster, field-creatures, rat): moves now cross-fade (0.14s; hurt 0.06s) instead of snapping, a repeated one-shot (two attacks in a row) starts over, and bone flips are spread over neighbouring keys along the shortest turn. The flips were in the shared goblin `fall` (spine and left leg turning 100-144 degrees in one frame, on all eight goblin-base models). Still mode is unchanged (exact frames). Loop seams were already clean. `tools/animation_audit.gd` lists each clip's biggest step; `tools/animation_smooth_check.gd`.

diff --git a/DESIGN.md b/DESIGN.md
@@ -1074,6 +1074,16 @@ Found weapons and armour are the smith's common pieces made better, generated wh
 
 ## Visual and audio direction
 
+**Menus and skill layout — owner review 2026-11-21 (#268/#269):** use
+Reliquary brass for the gothic menu direction. A button against the left edge
+is flat on the left and beveled on the right; central buttons bevel both ends;
+right-edge buttons mirror the left. Skill paths use the landscape width:
+shared class improvements above, named-character personal traits below.
+Descriptions use the backpack's hover/tap cards beside the source, with no
+permanent right-hand description column. Reviewed concepts and approval record:
+[skill-tree-concept.md](docs/skill-tree-concept.md). New skill values, extra
+personal traits and unlock conditions are still proposals.
+
 Dark, gritty, grounded medieval fantasy. Stained stone, corroded metal, worn supplies, oppressive spaces, and scarce lantern light. Charcoal, dirty parchment, muted teal, rusty brown, and warm amber form the initial palette. Keep essential threats and interface elements readable.
 
 The current visual baseline is **simple, shadow-heavy pixel environments with detailed, expressive character portraits and limited, deliberate animation**. Use bold room shapes, sparse textures, a restrained palette, and one clear encounter focal point. The owner preferred this reduced-detail direction over the intricate painted and densely textured pixel mockups. Exact environment resolution and production workflow remain open.
